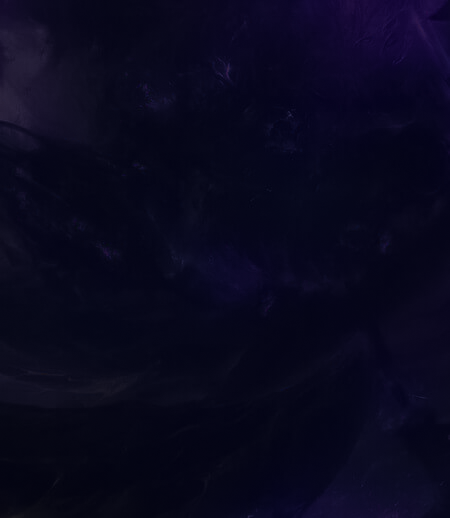
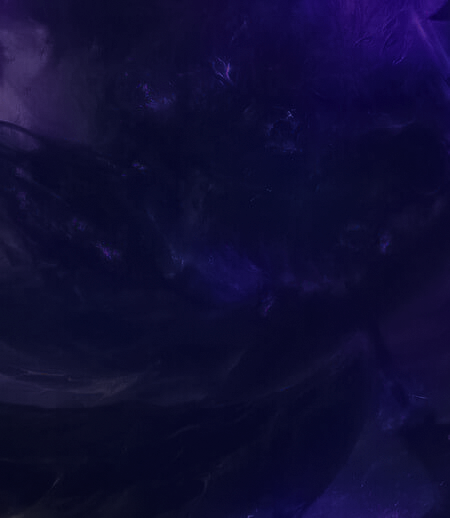
Update CSS styles and background image
- Enhanced header component styling
- Improved hero section animations and layout
- Updated base CSS for better responsive design
- Modified background image for better visual appeal

diff --git a/css/components/hero.css b/css/components/hero.css
@@ -4,10 +4,10 @@
     overflow: hidden;
     color: var(--color-text-primary);
     background:
-        radial-gradient(circle at 18% 14%, rgba(124, 58, 237, 0.28), transparent 60%),
-        radial-gradient(circle at 82% 22%, rgba(247, 167, 54, 0.22), transparent 65%),
-        linear-gradient(145deg, rgba(17, 22, 40, 0.92), rgba(22, 28, 52, 0.72) 55%, rgba(14, 18, 32, 0.94)),
-        url('../../images/top-bg.png') center / cover no-repeat;
+        radial-gradient(circle at 18% 14%, rgba(124, 58, 237, 0.28), transparent 30%),
+        radial-gradient(circle at 82% 22%, rgba(54, 14, 199, 0.22), transparent 35%),
+
+        url('../../images/top-bg.png') bottom center / cover no-repeat;
     padding: 3.6rem 0 2.6rem;
     /* compacted height */
 }

diff --git a/css/base.css b/css/base.css
@@ -159,7 +159,10 @@ main {
 
 /* Content sections wrapper with shared background */
 .content-sections {
-    background: linear-gradient(155deg, rgba(18, 20, 34, 0.6), rgba(24, 22, 46, 0.2)),
-        url('/images/BG MID.png') center/cover no-repeat;
+    background:
+        radial-gradient(circle at 18% 14%, rgba(124, 58, 237, 0.28), transparent 60%),
+        radial-gradient(circle at 82% 22%, rgba(247, 167, 54, 0.22), transparent 65%),
+        linear-gradient(145deg, rgba(17, 22, 40, 0.92), rgba(22, 28, 52, 0.72) 55%, rgba(14, 18, 32, 0.94)),
+        url('/images/BG MID.png') TOP center/cover no-repeat;
     background-blend-mode: overlay;
 }

diff --git a/css/components/header.css b/css/components/header.css
@@ -1,7 +1,7 @@
 /* Header-specific layout */
 .site-header {
     border-bottom: 1px solid var(--color-purple-light);
-    background: linear-gradient(135deg, rgba(28, 20, 44, 0.92), rgba(52, 30, 90, 0.85));
+    background: linear-gradient(135deg, rgba(28, 20, 44, 0.92), rgba(33, 6, 80, 0.85));
     backdrop-filter: blur(12px);
     box-shadow: 0 12px 32px -8px rgba(124, 58, 237, 0.45), 0 2px 0 0 rgba(247, 167, 54, 0.35) inset;
 }
